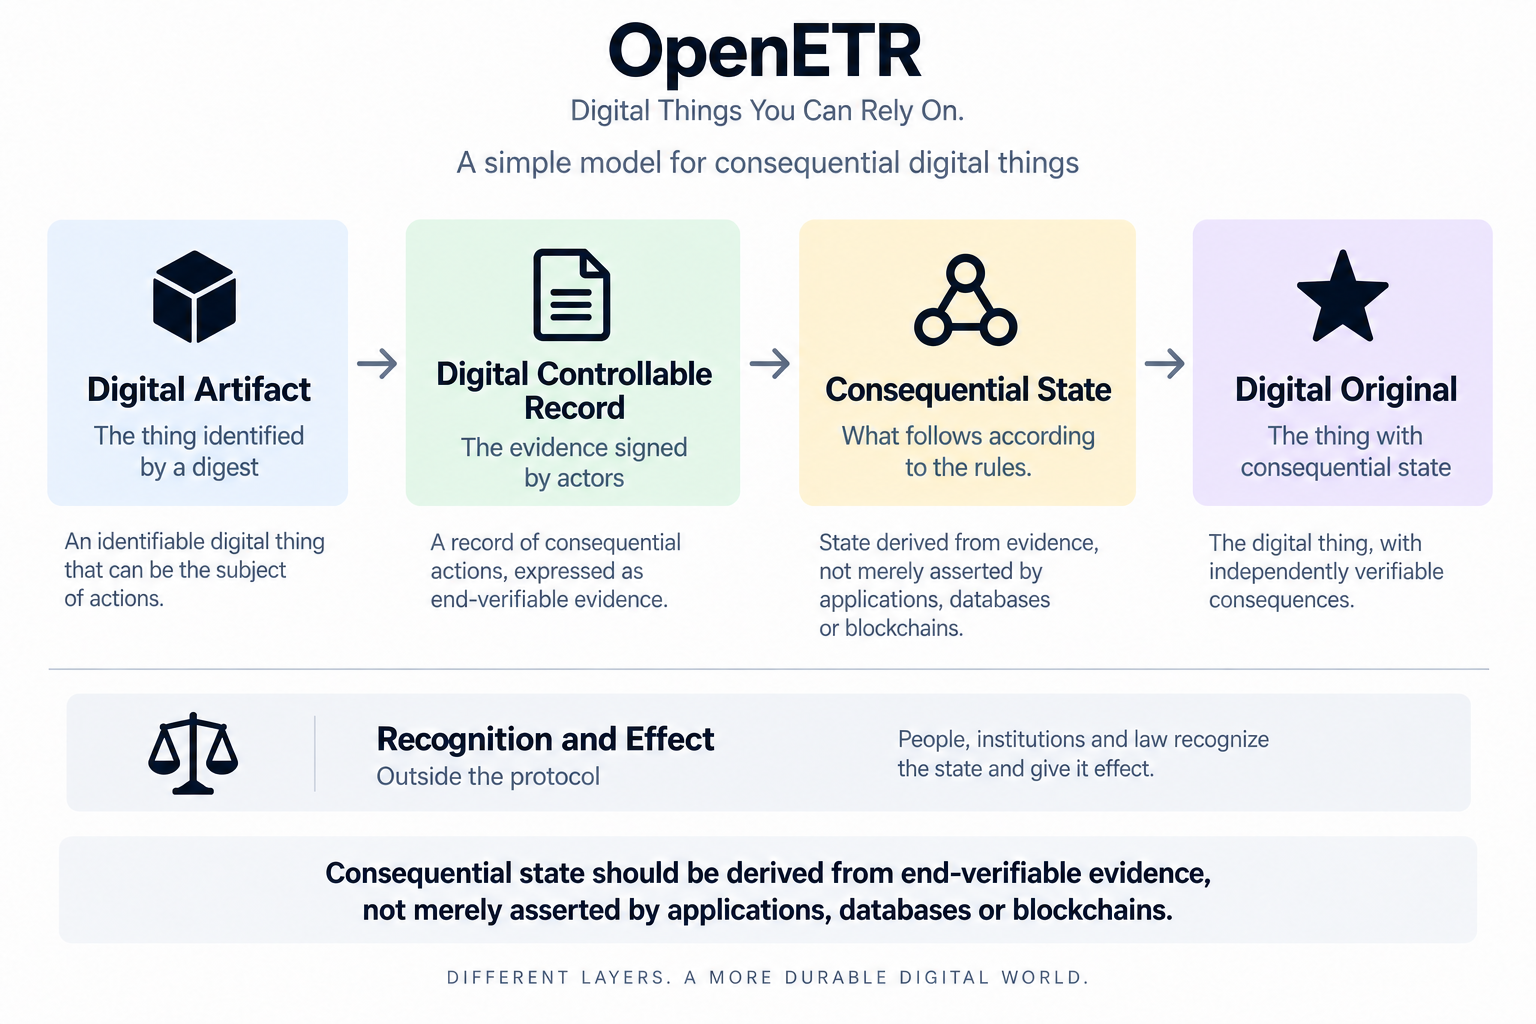
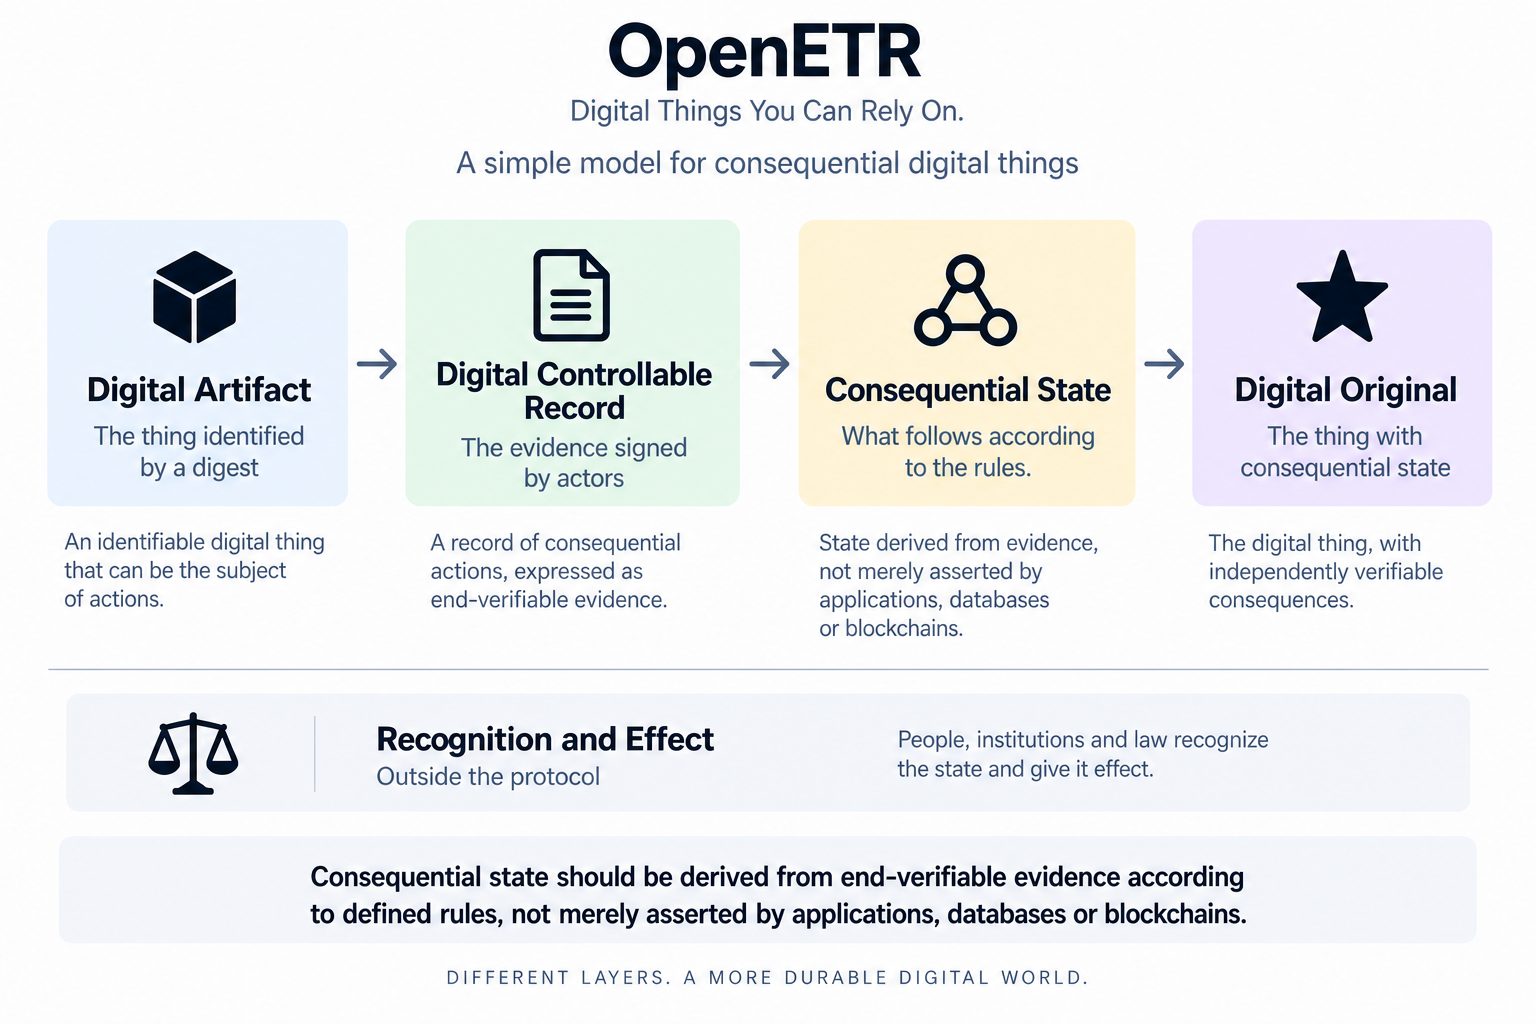
docs: update index

diff --git a/docs/specs/DIGITAL_ORIGINALITY_CONTROL_AND_STANDING_DESIGN_NOTE.md b/docs/specs/DIGITAL_ORIGINALITY_CONTROL_AND_STANDING_DESIGN_NOTE.md
@@ -8,9 +8,9 @@ Draft design note.
 
 This note captures a core design decision for OpenETR and related applications:
 a Digital Artifact becomes a Digital Original, in the OpenETR technical sense,
-when its DCR is validated under an applicable policy and that validation
-establishes consequential state. Recognition accepts that result for a stated
-purpose and determines external effect.
+when defined rules derive consequential state from its validated DCR evidence.
+Recognition accepts that result for a stated purpose and determines external
+effect.
 
 The central distinction is:
 
@@ -47,8 +47,8 @@ This gives five separate layers:
 | Recognition | Which actor, graph, object, or state is accepted for a stated purpose? | A verifier recognizes a warehouse operator or candidate graph. |
 | Effect | What consequence follows from recognized state? | Treated as an authoritative copy, transferable record, official record, or evidentiary record. |
 
-Policy validation of the DCR can establish consequential state. It cannot
-compel external recognition or effect.
+Defined rules can derive consequential state from validated DCR evidence. They
+cannot compel external recognition or effect.
 
 ## Definitions
 
@@ -98,14 +98,14 @@ The important question is not only whether an object was anchored or signed. The
 
 ### Standing
 
-Standing may be asserted in a DCR, derived by validation, or accepted through
-recognition. A validation policy may produce a standing-related state, but
+Standing may be asserted in a DCR, derived under defined rules, or accepted
+through recognition. Profile rules may derive a standing-related state, but
 **recognized standing** exists only when a recognition context accepts that
 state for a purpose.
 Examples include official copy, evidentiary copy, transferable record, retired
 record, cancelled record, or non-authoritative copy.
 
-Policy validation of DCR evidence can establish consequential state.
+Defined rules derive consequential state from validated DCR evidence.
 Recognition determines whether a relying party accepts that state and what
 effect follows.
 
@@ -213,8 +213,8 @@ Anchor creates the first candidate DCR record for a Digital Artifact. It
 provides a technical reference point and a starting point for the control
 graph.
 
-When the one-record DCR is validated under an applicable policy, it may produce
-initial consequential state for a candidate control graph. It may therefore
+When the one-record DCR evidence is valid, defined rules may derive initial
+consequential state for a candidate control graph. It may therefore
 bring the identified Digital Artifact into the Digital Original model.
 It does not establish that its candidate graph is uniquely authoritative,
 recognized, or legally effective. Earlier terminology such as Original Event
@@ -336,9 +336,9 @@ particular file instance becoming uniquely original.
 
 They do not, by themselves, establish OpenETR consequential state for the scan.
 
-The scan becomes a Digital Original in the technical OpenETR sense when its DCR
-is validated under an applicable policy and produces consequential state. It becomes a recognized
-Digital Original for a licensing purpose only if a competent licensing
+The scan becomes a Digital Original in the technical OpenETR sense when defined
+rules derive consequential state from its validated DCR evidence. It becomes a
+recognized Digital Original for a licensing purpose only if a competent licensing
 authority or relevant recognition regime accepts the actor, graph, object, and
 derived state for that purpose.
 
@@ -451,12 +451,12 @@ consequential state, independent of any particular technical binding.
 that determines whether a proposed state transition is valid.
 
 **Digital Original:** A Digital Artifact for which consequential state has
-been established by validating its DCR under an applicable policy.
+been established through a Digital Controllable Record.
 
-**Consequential State:** The result of validating end-verifiable DCR evidence
-under an identified policy. The result is capable of affecting control,
+**Consequential State:** State that follows from consequential actions
+according to defined protocol rules. It is capable of affecting control,
 authority, rights, obligations, restrictions, standing, or permitted actions
-when it is recognized for a stated purpose.
+when recognized for a stated purpose.
 
 **Recognition:** The acceptance of an actor, assertion, object, or control state by a relying party, institution, community, or legal regime for a particular purpose.
 

diff --git a/docs/specs/CONSEQUENTIAL_STATE_ARCHITECTURE_DESIGN_NOTE.md b/docs/specs/CONSEQUENTIAL_STATE_ARCHITECTURE_DESIGN_NOTE.md
@@ -9,19 +9,20 @@ events, projections, and application boundaries.
 
 ## Core Principle
 
-> Consequential state should result from validating end-verifiable DCR
-> evidence under an identified policy, not be asserted solely by applications.
+> Consequential state should be derived from end-verifiable evidence according
+> to defined rules, not merely asserted by applications, databases or
+> blockchains.
 
 **Consequential State Architecture (CSA)** is an architectural approach in
 which signed, independently verifiable records form a DCR spanning an
-artifact's evidenced lifecycle. Validation of that DCR under an identified
-policy produces state affecting control, authority, rights, obligations,
+artifact's evidenced lifecycle. Validation checks that evidence, and defined
+rules derive state affecting control, authority, rights, obligations,
 restrictions, standing, or permitted actions.
 
 Applications may maintain projections of consequential state, but they are not
 its sole authority:
 
-> Applications interpret consequential state; they do not own it.
+> Applications derive consequential state; they do not own it.
 
 ## Digital Artifacts, Controllable Records, And Digital Originals
 
@@ -109,9 +110,9 @@ A DCR may consist of:
 - a directed graph of control, transfer, encumbrance, discharge, provenance,
   delegation, termination, or related events.
 
-The graph is evidence. Current consequential state is the result of validating
-the DCR graph as a whole under an applicable policy and applying defined state
-transition rules. The DCR therefore spans the signed evidence lifecycle between
+The graph is evidence. Validation checks the DCR graph as a whole, and defined
+state transition rules derive current consequential state from the valid
+evidence. The DCR therefore spans the signed evidence lifecycle between
 content identity and state evaluation; it must not be used as a synonym for the
 Digital Artifact itself.
 
@@ -248,9 +249,9 @@ or applicable rule for a stated purpose.
 acted upon.
 
 ```text
-DCR OR DCR GRAPH + IDENTIFIED POLICY
+DCR OR DCR GRAPH + DEFINED RULES
   |
-  | validation
+  | validate evidence and derive state
   v
 CONSEQUENTIAL STATE (result)
   |
@@ -261,8 +262,8 @@ RECOGNITION
 EFFECT
 ```
 
-OpenETR can produce end-verifiable consequential state through policy
-validation of DCR evidence without claiming that
+OpenETR can derive consequential state from end-verifiable DCR evidence
+according to defined rules without claiming that
 every external party or jurisdiction must recognize it or give it a particular
 legal, institutional, contractual, community, or operational effect.
 

diff --git a/docs/specs/DIGITAL_CONTROLLABLE_RECORD_DESIGN_NOTE.md b/docs/specs/DIGITAL_CONTROLLABLE_RECORD_DESIGN_NOTE.md
@@ -37,9 +37,9 @@ The canonical definitions are:
 
 - A **Digital Artifact** is persistent digital content with a unique content
   identity, normally established by a cryptographic digest.
-- A **Digital Controllable Record** is the signed evidence structure that is
-  validated under an applicable policy to establish and transition
-  consequential state concerning a Digital Artifact.
+- A **Digital Controllable Record** is the signed evidence structure from which
+  defined rules derive consequential state concerning a Digital Artifact after
+  the evidence is validated.
 - A **Digital Original** is a Digital Artifact with consequential state.
 
 > Content makes an artifact identifiable. Consequential state makes it an
@@ -137,7 +137,7 @@ Implementations should separate:
 ```text
 ARTIFACT         digest + content
 DCR              signed end-verifiable records or graph
-STATE PROJECTION result of validating the DCR under an identified policy
+STATE PROJECTION state derived from validated DCR evidence under defined rules
 ```
 
 The state projection should be produced through one versioned derivation
@@ -162,9 +162,10 @@ reproduce consequential state.
 
 ## Governing Rules
 
-- Consequential state should result from validation of end-verifiable DCR
-  evidence under an identified policy, not be asserted by applications.
-- Applications interpret consequential state; they do not own it.
+- Consequential state should be derived from end-verifiable evidence according
+  to defined rules, not merely asserted by applications, databases or
+  blockchains.
+- Applications derive consequential state; they do not own it.
 - Recognition determines the effect given to consequential state.
 - System failure need not become state failure.
 - Digital Originals should outlive applications.

diff --git a/docs-site/index.md b/docs-site/index.md
@@ -4,13 +4,14 @@
 
 OpenETR provides a simple protocol model for digital things people need to rely
 on. It separates the thing itself, the evidence of actions concerning it, and
-the state that follows from those actions under defined rules.
+the state that follows from those actions under defined rules. On that basis,
+an individual, community, institution, authority, or applicable law can
+determine whether the digital thing should be recognized and what effect it
+should have.
 
 For example, the digital thing might be a government-issued document, an
 electronic trade document, or a digitized cultural artifact. OpenETR can
-establish it as a Digital Original that can be independently verified, while
-the relevant authority, institution, or law determines whether the digital
-thing should be recognized and what real-world effect it should have.
+establish it as a Digital Original that can be independently verified.
 
 ## Three Primitives. One Core Concept.
 
@@ -74,8 +75,9 @@ The final question sits outside the protocol: **so what?** People,
 institutions, systems, and law recognize consequential state and determine what
 effect it receives.
 
-> Consequential state should be derived from end-verifiable evidence, not
-> merely asserted by applications, databases or blockchains.
+> Consequential state should be derived from end-verifiable evidence according
+> to defined rules, not merely asserted by applications, databases or
+> blockchains.
 
 ## Three Primitives And One Core Concept
 

diff --git a/docs-site/policy-briefs/openetr-and-government-modernization.md b/docs-site/policy-briefs/openetr-and-government-modernization.md
@@ -215,8 +215,8 @@ It is that consequential public-sector actions increasingly occur across systems
 OpenETR is useful in that setting because it offers a modest architectural principle:
 
 ```text
-Consequential state should be derived from end-verifiable evidence,
-not merely asserted by applications.
+Consequential state should be derived from end-verifiable evidence according
+to defined rules, not merely asserted by applications, databases or blockchains.
 ```
 
 That principle fits the report's central message: modernization should focus on delivery, trust, coordination, and practical institutional capability.

diff --git a/docs-site/openetr/consequential-state.md b/docs-site/openetr/consequential-state.md
@@ -2,8 +2,9 @@
 
 OpenETR is designed around one governing principle:
 
-> Consequential state should be derived from end-verifiable evidence, not
-> merely asserted by applications, databases or blockchains.
+> Consequential state should be derived from end-verifiable evidence according
+> to defined rules, not merely asserted by applications, databases or
+> blockchains.
 
 ## Digital Artifact, Digital Controllable Record, And Digital Original
 
